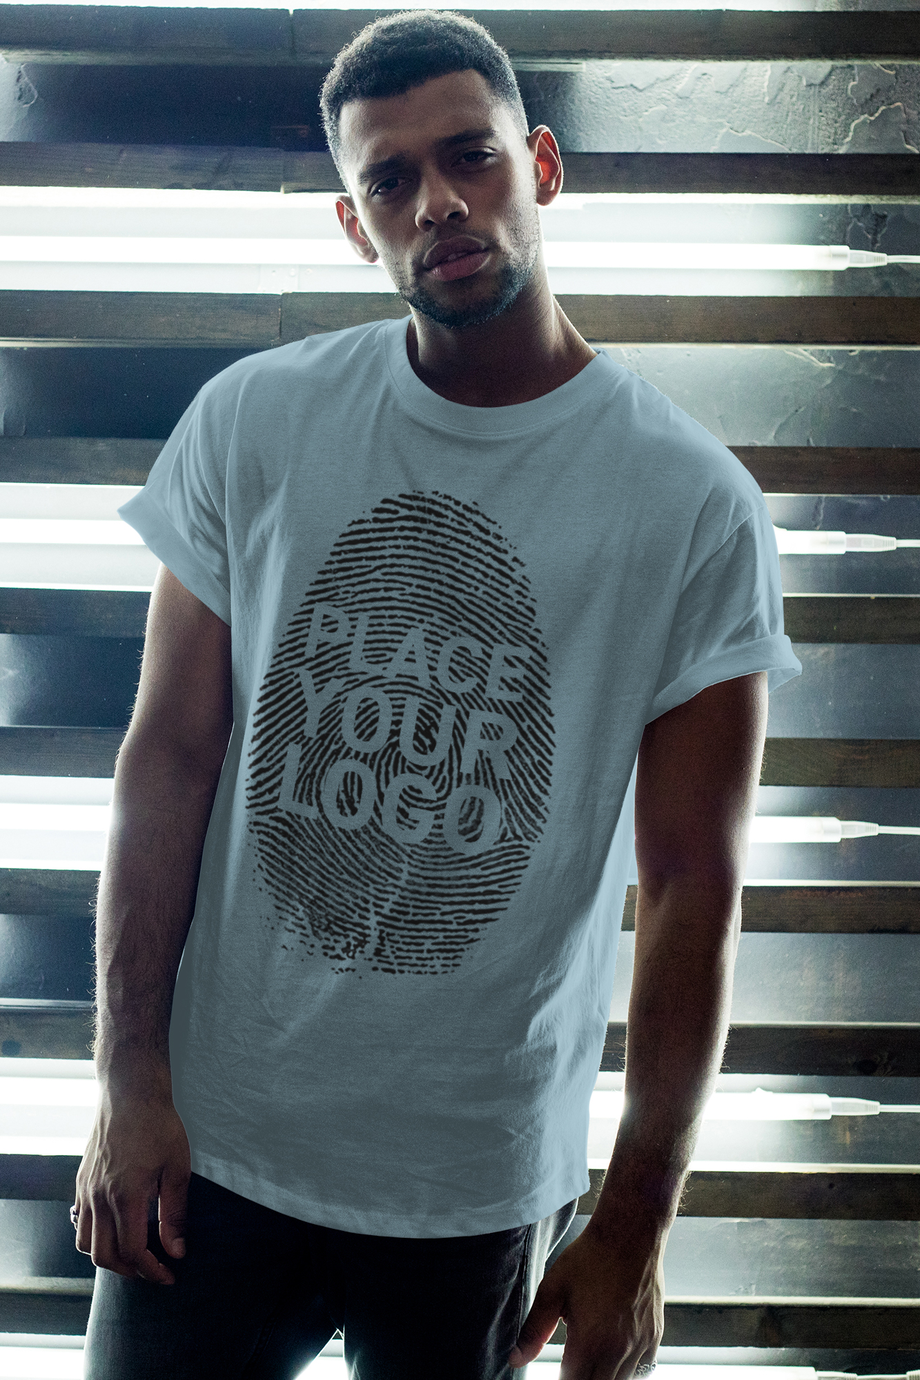
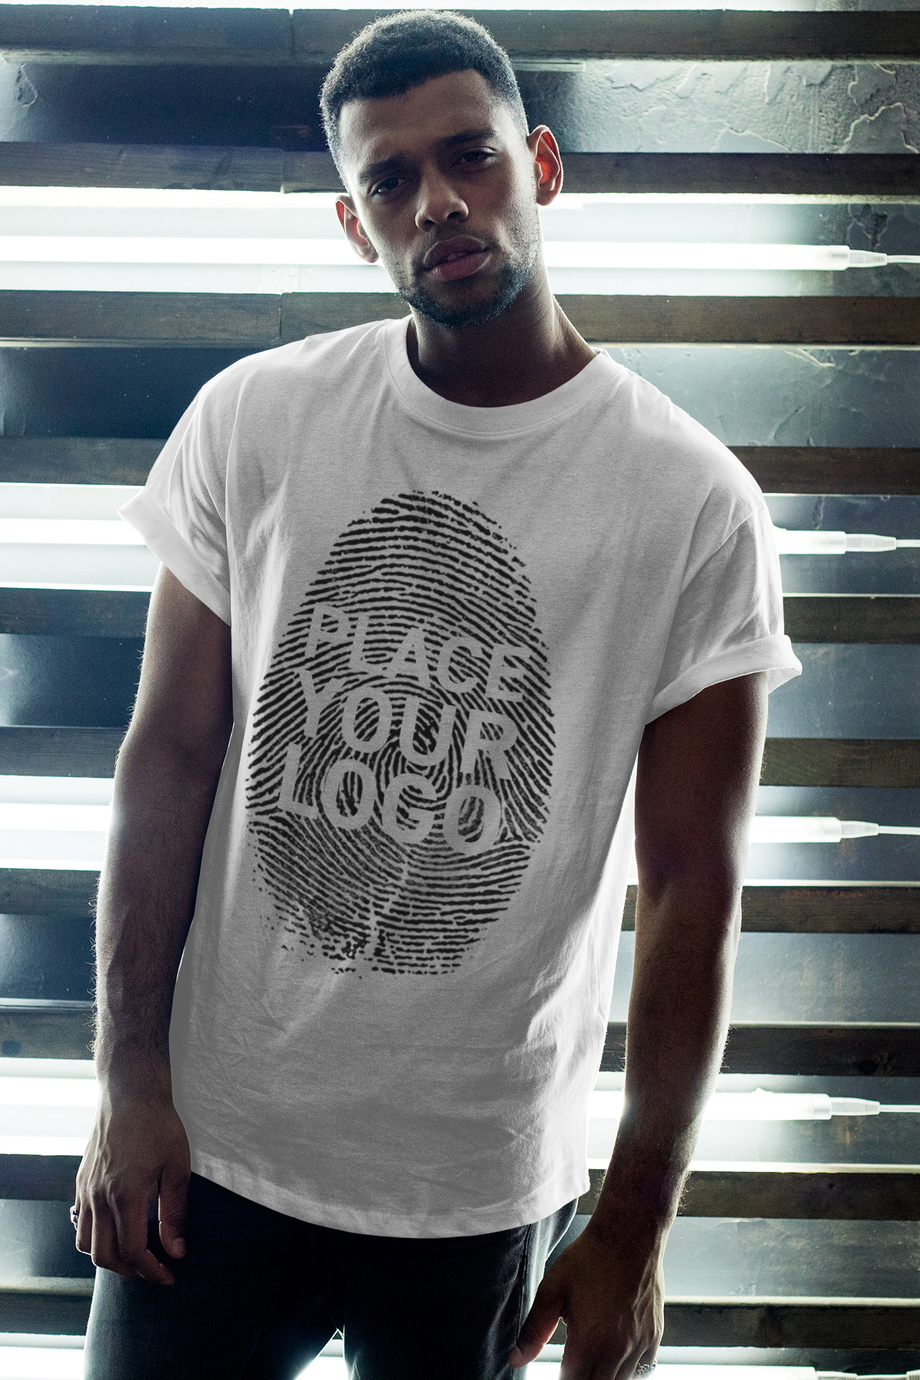
White default preview with hover-to-color for man2 mockups

Changed region(s): [[0.1217, 0.2181, 0.8826, 0.9036]]

diff --git a/index.html b/index.html
@@ -569,20 +569,20 @@ function showLoadError(){
 // `model` groups mockups shot with the same person, so "You might like" can
 // show other poses of that same model rather than a random mix of everyone.
 const MOCKUPS=[
-  {id:'mockup1_package', label:'Mockup 1', model:'man2'},
-  {id:'mockup14_package',label:'Mockup 14',model:'man2'},
-  {id:'mockup15_package',label:'Mockup 15',model:'man2'},
-  {id:'mockup16_package',label:'Mockup 16',model:'man2'},
-  {id:'mockup17_package',label:'Mockup 17',model:'man2'},
-  {id:'mockup18_package',label:'Mockup 18',model:'man2'},
-  {id:'mockup19_package',label:'Mockup 19',model:'man2'},
-  {id:'mockup20_package',label:'Mockup 20',model:'man2'},
-  {id:'mockup21_package',label:'Mockup 21',model:'man2'},
-  {id:'mockup22_package',label:'Mockup 22',model:'man2'},
-  {id:'mockup23_package',label:'Mockup 23',model:'man2'},
-  {id:'mockup24_package',label:'Mockup 24',model:'man2'},
-  {id:'mockup25_package',label:'Mockup 25',model:'man2'},
-  {id:'mockup26_package',label:'Mockup 26',model:'man2'},
+  {id:'mockup1_package', label:'Mockup 1', model:'man2',hoverPreview:'shirt_preview_color.png'},
+  {id:'mockup14_package',label:'Mockup 14',model:'man2',hoverPreview:'shirt_preview_color.png'},
+  {id:'mockup15_package',label:'Mockup 15',model:'man2',hoverPreview:'shirt_preview_color.png'},
+  {id:'mockup16_package',label:'Mockup 16',model:'man2',hoverPreview:'shirt_preview_color.png'},
+  {id:'mockup17_package',label:'Mockup 17',model:'man2',hoverPreview:'shirt_preview_color.png'},
+  {id:'mockup18_package',label:'Mockup 18',model:'man2',hoverPreview:'shirt_preview_color.png'},
+  {id:'mockup19_package',label:'Mockup 19',model:'man2',hoverPreview:'shirt_preview_color.png'},
+  {id:'mockup20_package',label:'Mockup 20',model:'man2',hoverPreview:'shirt_preview_color.png'},
+  {id:'mockup21_package',label:'Mockup 21',model:'man2',hoverPreview:'shirt_preview_color.png'},
+  {id:'mockup22_package',label:'Mockup 22',model:'man2',hoverPreview:'shirt_preview_color.png'},
+  {id:'mockup23_package',label:'Mockup 23',model:'man2',hoverPreview:'shirt_preview_color.png'},
+  {id:'mockup24_package',label:'Mockup 24',model:'man2',hoverPreview:'shirt_preview_color.png'},
+  {id:'mockup25_package',label:'Mockup 25',model:'man2',hoverPreview:'shirt_preview_color.png'},
+  {id:'mockup26_package',label:'Mockup 26',model:'man2',hoverPreview:'shirt_preview_color.png'},
   {id:'mockup3_package', label:'Mockup 3', model:'man1'},
   {id:'mockup4_package', label:'Mockup 4', model:'man1'},
   {id:'mockup5_package', label:'Mockup 5', model:'man1',hoverPreview:'shirt_preview_purple.png'},
@@ -609,7 +609,7 @@ function previewHTML(m){
 // shot in many near-identical poses/outfits, a wall of near-duplicate
 // thumbnails is worse than "here's this person, pick a photo of them".
 // Existing individually-curated mockups (man1) are left ungrouped/unchanged.
-const GROUPED_MODELS=new Set(['man2']);
+const GROUPED_MODELS=new Set(['man1','man2']);
 function modelGroups(){
   const groups={};
   MOCKUPS.forEach(m=>{(groups[m.model]=groups[m.model]||[]).push(m);});
